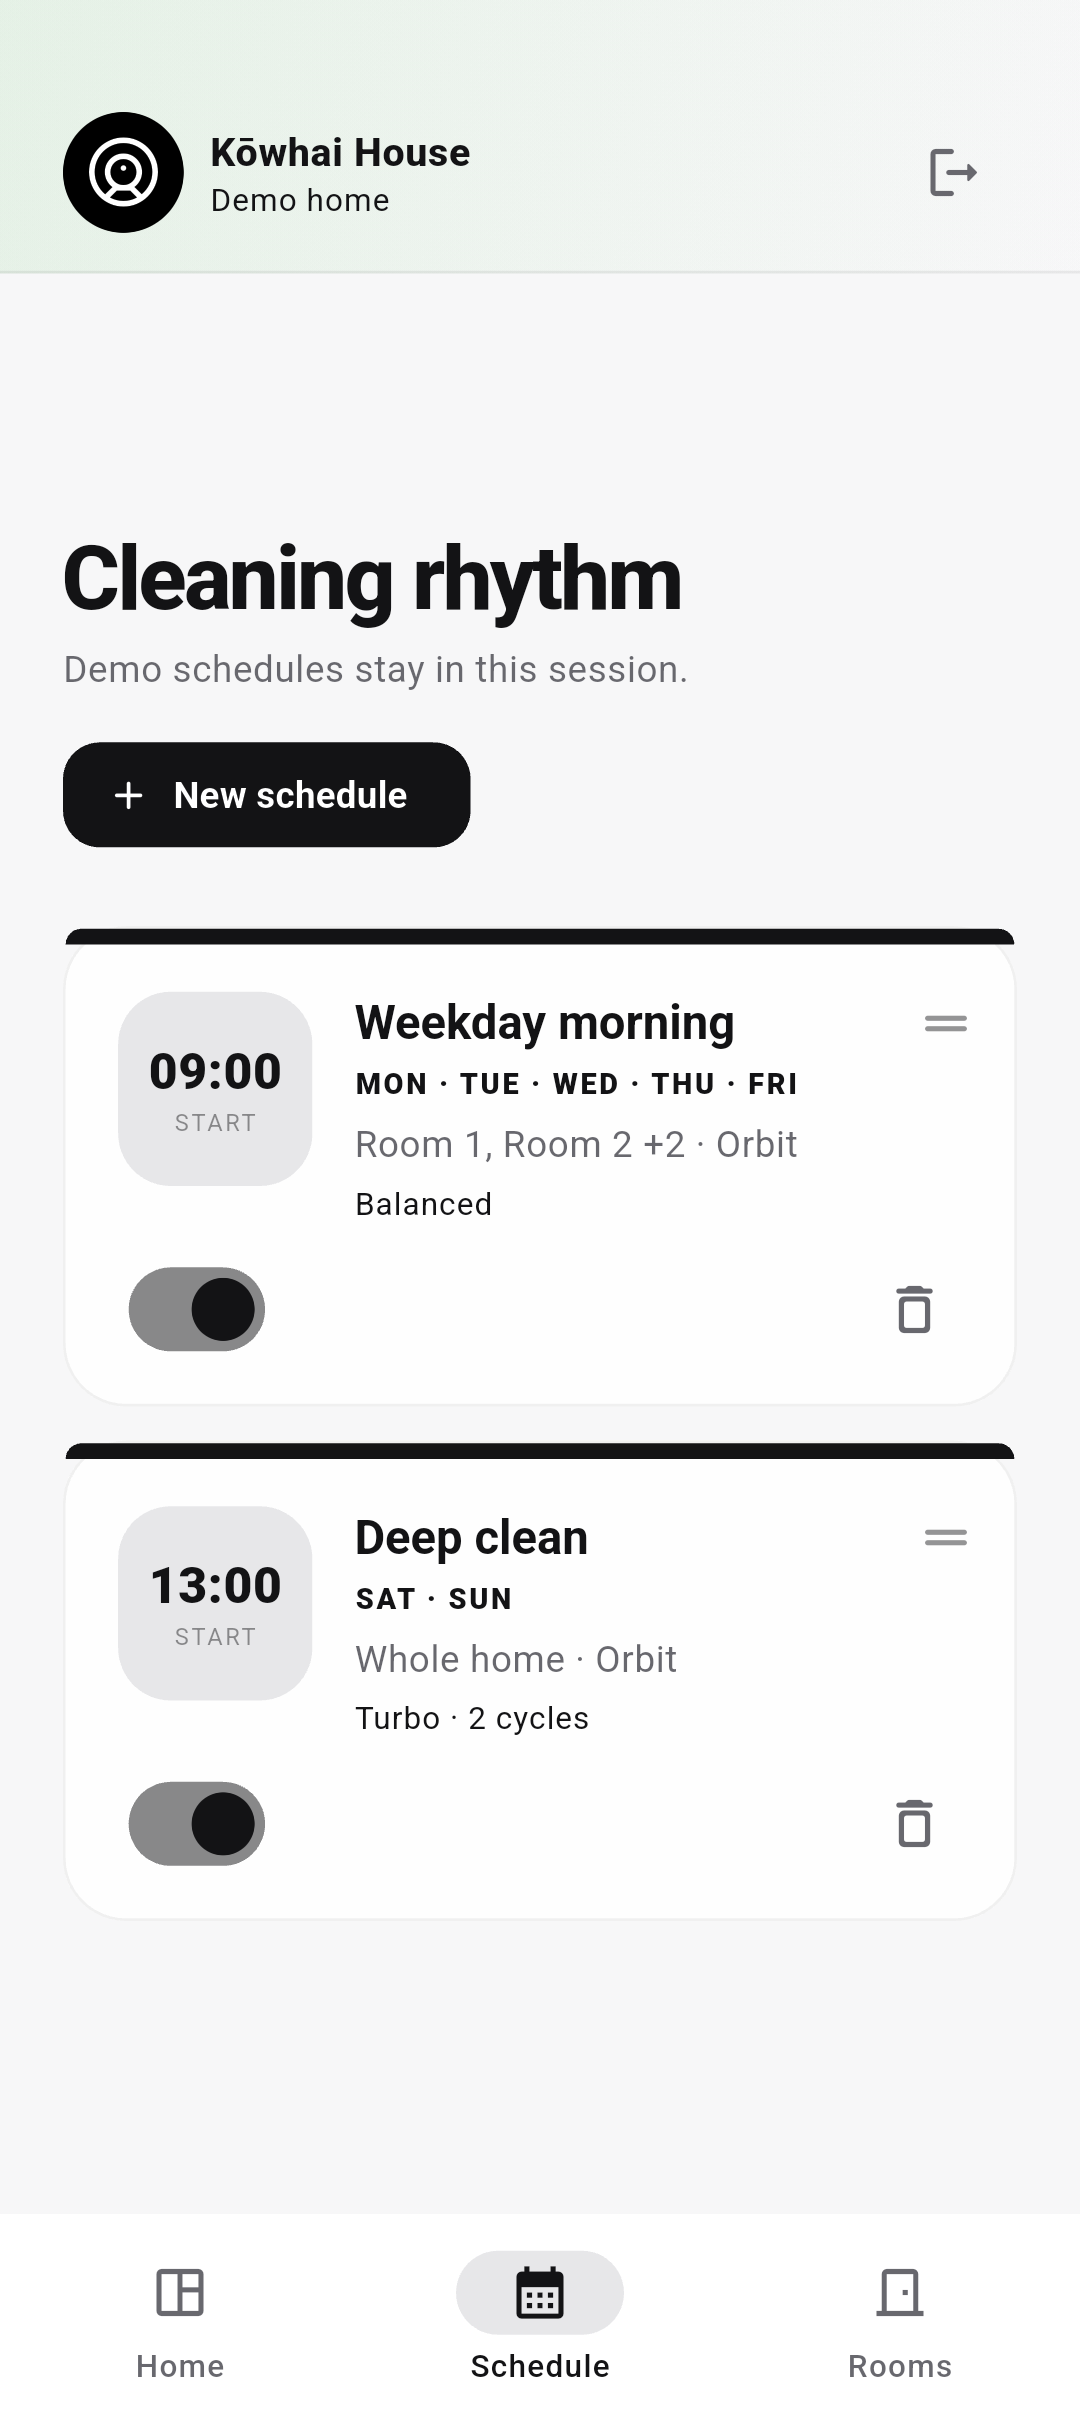
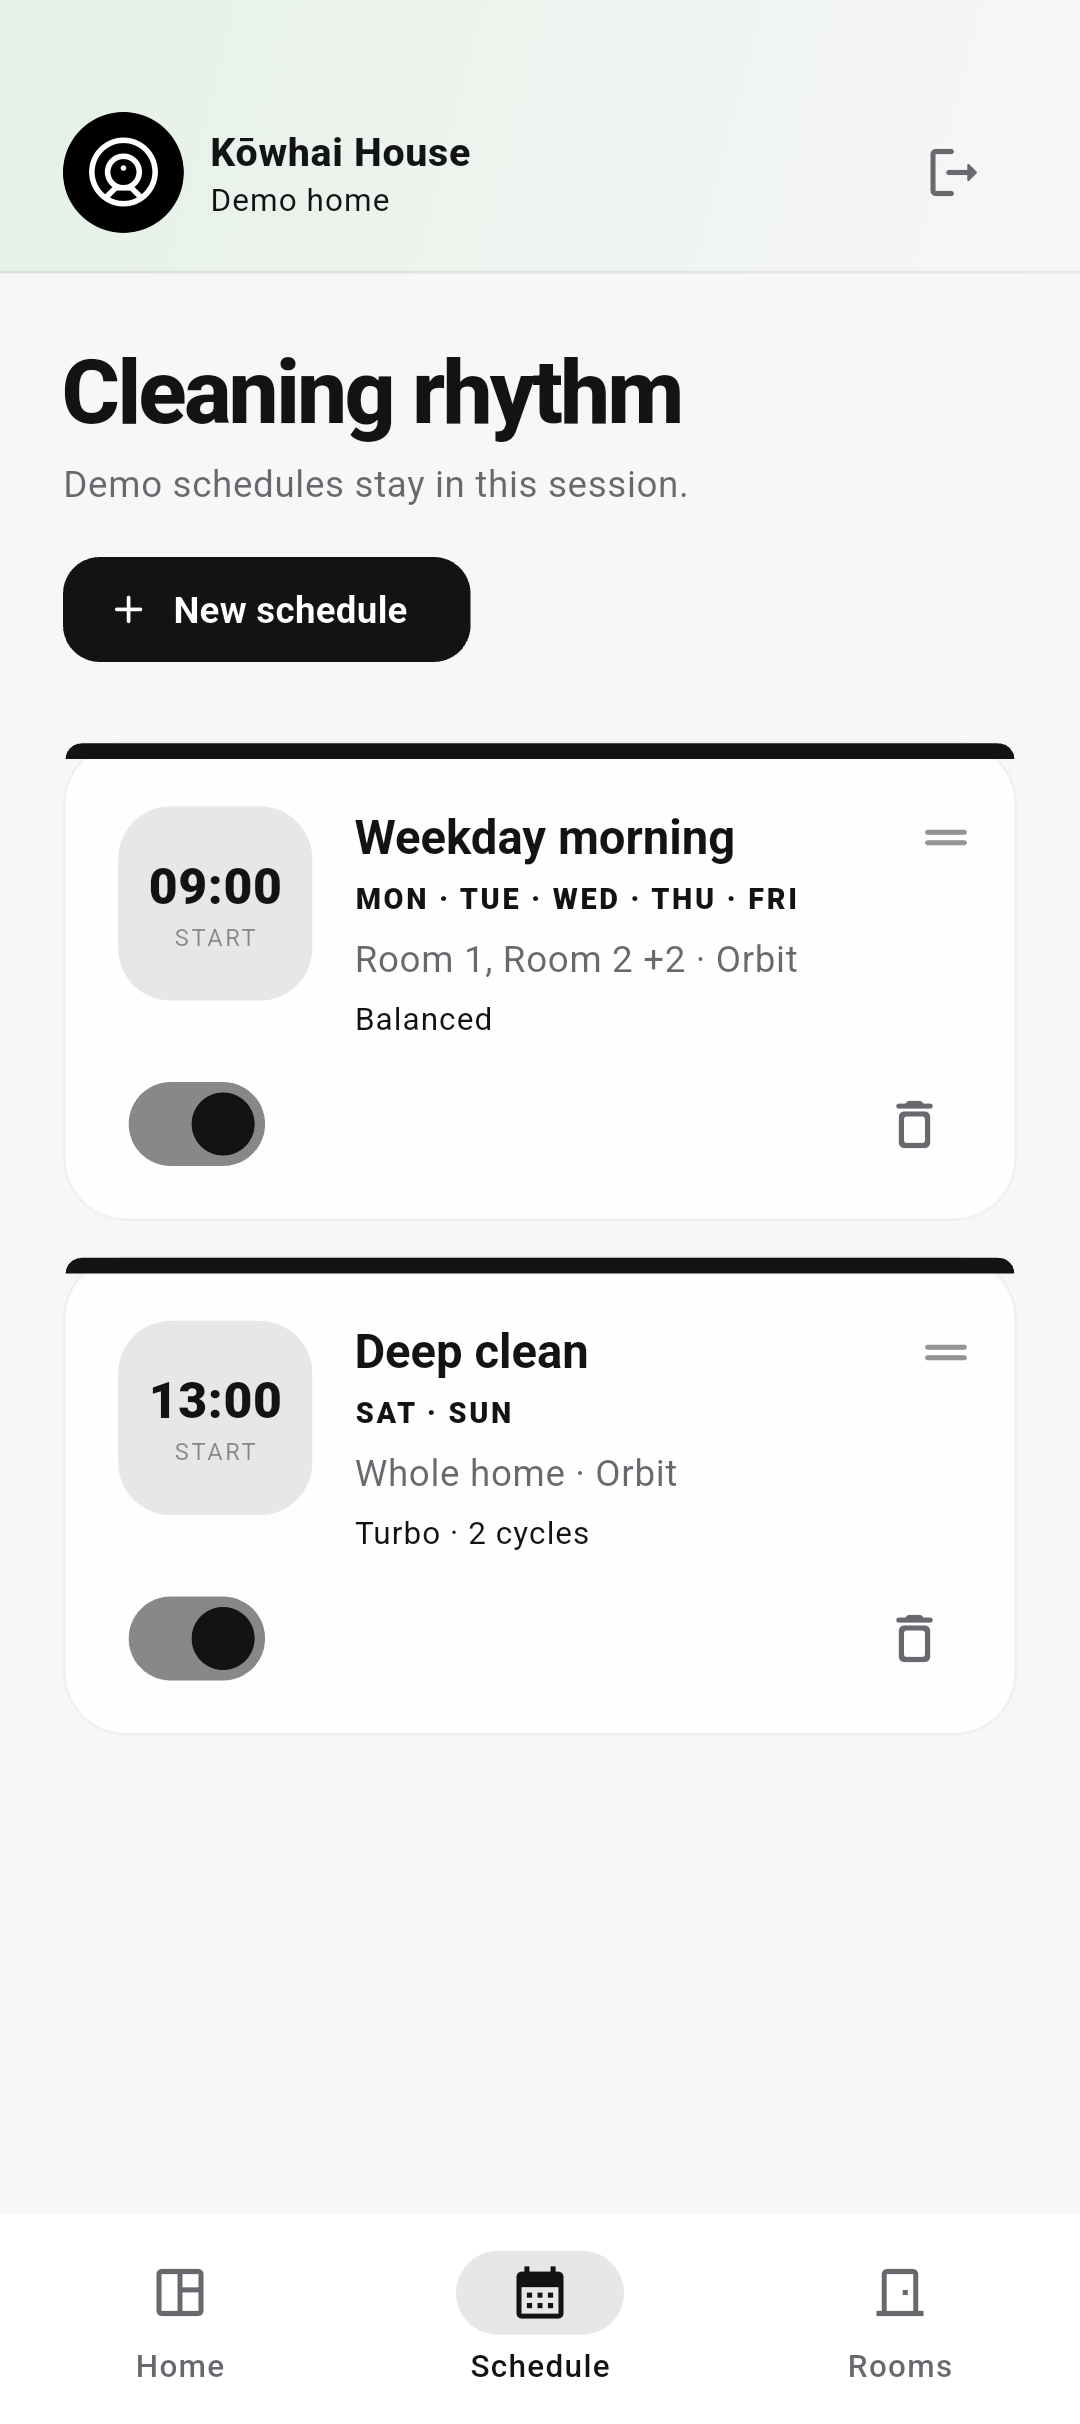
Add patrol test for notifications

diff --git a/patrol_test/notifications_test.dart b/patrol_test/notifications_test.dart
@@ -1,0 +1,78 @@
+import 'dart:io';
+
+import 'package:flutter/material.dart';
+import 'package:flutter_test/flutter_test.dart';
+import 'package:flutter_local_notifications/flutter_local_notifications.dart';
+import 'package:patrol/patrol.dart';
+import 'package:scrubby/core/home_assistant.dart';
+import 'package:scrubby/core/notifications.dart';
+
+void main() {
+  const notifications = <DreameNotification>[
+    DreameNotification(
+      category: DreameNotificationCategory.cleanup,
+      entityId: 'vacuum.orbit',
+      title: 'Cleaning complete',
+      body: 'Patrol cleanup notification',
+    ),
+    DreameNotification(
+      category: DreameNotificationCategory.consumable,
+      entityId: 'vacuum.orbit',
+      title: 'Maintenance needed',
+      body: 'Patrol consumable notification',
+    ),
+    DreameNotification(
+      category: DreameNotificationCategory.information,
+      entityId: 'vacuum.orbit',
+      title: 'Robot information',
+      body: 'Patrol information notification',
+    ),
+    DreameNotification(
+      category: DreameNotificationCategory.warning,
+      entityId: 'vacuum.orbit',
+      title: 'Robot warning',
+      body: 'Patrol warning notification',
+    ),
+    DreameNotification(
+      category: DreameNotificationCategory.error,
+      entityId: 'vacuum.orbit',
+      title: 'Robot error',
+      body: 'Patrol error notification',
+    ),
+  ];
+
+  for (final notification in notifications) {
+    patrolTest('posts the ${notification.category.name} notification', (
+      $,
+    ) async {
+      if (!Platform.isAndroid) return;
+
+      await $.pumpWidgetAndSettle(
+        const MaterialApp(home: Scaffold(body: Text('Notification test'))),
+      );
+
+      final presenter = LocalVacuumNotificationPresenter.instance;
+      await presenter.initialize();
+
+      final androidNotifications = FlutterLocalNotificationsPlugin()
+          .resolvePlatformSpecificImplementation<
+            AndroidFlutterLocalNotificationsPlugin
+      >()!;
+      if (await androidNotifications.areNotificationsEnabled() != true) {
+        final permission = presenter.requestPermissions();
+        await Future<void>.delayed(const Duration(milliseconds: 500));
+        await $.platform.mobile.grantPermissionWhenInUse();
+        expect(await permission, isTrue);
+      }
+
+      await presenter.show(notification, vacuumName: 'Orbit');
+
+      await $.platform.mobile.openNotifications();
+      await $.platform.mobile.waitUntilVisible(
+        Selector(textContains: notification.body),
+        timeout: const Duration(seconds: 10),
+      );
+      await $.platform.mobile.closeNotifications();
+    });
+  }
+}

diff --git a/lib/core/notifications.dart b/lib/core/notifications.dart
@@ -18,6 +18,7 @@ abstract interface class VacuumNotificationPresenter {
 
 const _backgroundChannelId = 'scrubby_background_service';
 const _backgroundNotificationId = 5100;
+const _androidNotificationIcon = 'ic_bg_service_small';
 
 bool get _supportsAndroidService =>
     !kIsWeb && defaultTargetPlatform == TargetPlatform.android;
@@ -191,7 +192,10 @@ class LocalVacuumNotificationPresenter implements VacuumNotificationPresenter {
       return;
     }
     try {
-      const android = AndroidInitializationSettings('ic_launcher');
+      // flutter_local_notifications resolves small icons from res/drawable.
+      // The launcher icon lives in res/mipmap and makes initialization fail,
+      // which would otherwise silently disable every event notification.
+      const android = AndroidInitializationSettings(_androidNotificationIcon);
       const darwin = DarwinInitializationSettings(
         requestAlertPermission: false,
         requestBadgePermission: false,
@@ -212,8 +216,10 @@ class LocalVacuumNotificationPresenter implements VacuumNotificationPresenter {
       for (final channel in _androidChannels) {
         await androidPlugin?.createNotificationChannel(channel);
       }
-    } catch (_) {
+    } catch (error, stackTrace) {
       // A notification plugin failure must never prevent Home Assistant login.
+      debugPrint('Could not initialize local notifications: $error');
+      debugPrintStack(stackTrace: stackTrace);
       _supported = false;
     }
   }

diff --git a/integration_test/screenshot_test.dart b/integration_test/screenshot_test.dart
@@ -148,7 +148,7 @@ void main() {
     testWidgets('SettingsPage', (tester) async {
       final state = _buildState();
       await _pumpDashboard(tester, state);
-      await tester.tap(find.bySemanticsLabel('Open Orbit settings'));
+      await tester.tap(find.byKey(const ValueKey('open-vacuum-settings')));
       await tester.pumpAndSettle();
       await _takeScreenshot(
         binding: binding,

diff --git a/lib/screens/home_page.dart b/lib/screens/home_page.dart
@@ -189,6 +189,7 @@ class _ControlHero extends StatelessWidget {
   Widget build(BuildContext context) {
     final vacuum = state.vacuum;
     return Semantics(
+      key: const ValueKey('open-vacuum-settings'),
       button: true,
       label: 'Open ${vacuum.name} settings',
       child: GestureDetector(

diff --git a/android/app/src/androidTest/java/app/scrubby/scrubby/MainActivityTest.java b/android/app/src/androidTest/java/app/scrubby/scrubby/MainActivityTest.java
@@ -1,0 +1,33 @@
+package app.scrubby.scrubby;
+
+import androidx.test.platform.app.InstrumentationRegistry;
+import org.junit.Test;
+import org.junit.runner.RunWith;
+import org.junit.runners.Parameterized;
+import org.junit.runners.Parameterized.Parameters;
+import pl.leancode.patrol.PatrolJUnitRunner;
+
+@RunWith(Parameterized.class)
+public class MainActivityTest {
+    @Parameters(name = "{0}")
+    public static Object[] testCases() {
+        PatrolJUnitRunner instrumentation =
+                (PatrolJUnitRunner) InstrumentationRegistry.getInstrumentation();
+        instrumentation.setUp(MainActivity.class);
+        instrumentation.waitForPatrolAppService();
+        return instrumentation.listDartTests();
+    }
+
+    public MainActivityTest(String dartTestName) {
+        this.dartTestName = dartTestName;
+    }
+
+    private final String dartTestName;
+
+    @Test
+    public void runDartTest() {
+        PatrolJUnitRunner instrumentation =
+                (PatrolJUnitRunner) InstrumentationRegistry.getInstrumentation();
+        instrumentation.runDartTest(dartTestName);
+    }
+}

diff --git a/README.md b/README.md
@@ -48,6 +48,15 @@ flutter build web
 flutter build appbundle --release
 ```
 
+The Android notification end-to-end tests use Patrol and a disposable
+emulator or test device. Patrol clears Scrubby's app data to isolate each test,
+so do not run them on a device whose saved Home Assistant connection you need:
+
+```sh
+flutter pub global activate patrol_cli
+patrol test --target patrol_test/notifications_test.dart
+```
+
 See [CONTRIBUTING.md](CONTRIBUTING.md) for the supported toolchain and local
 release-signing setup. See [SECURITY.md](SECURITY.md) for vulnerability
 reporting and [PRIVACY.md](PRIVACY.md) for data handling.
